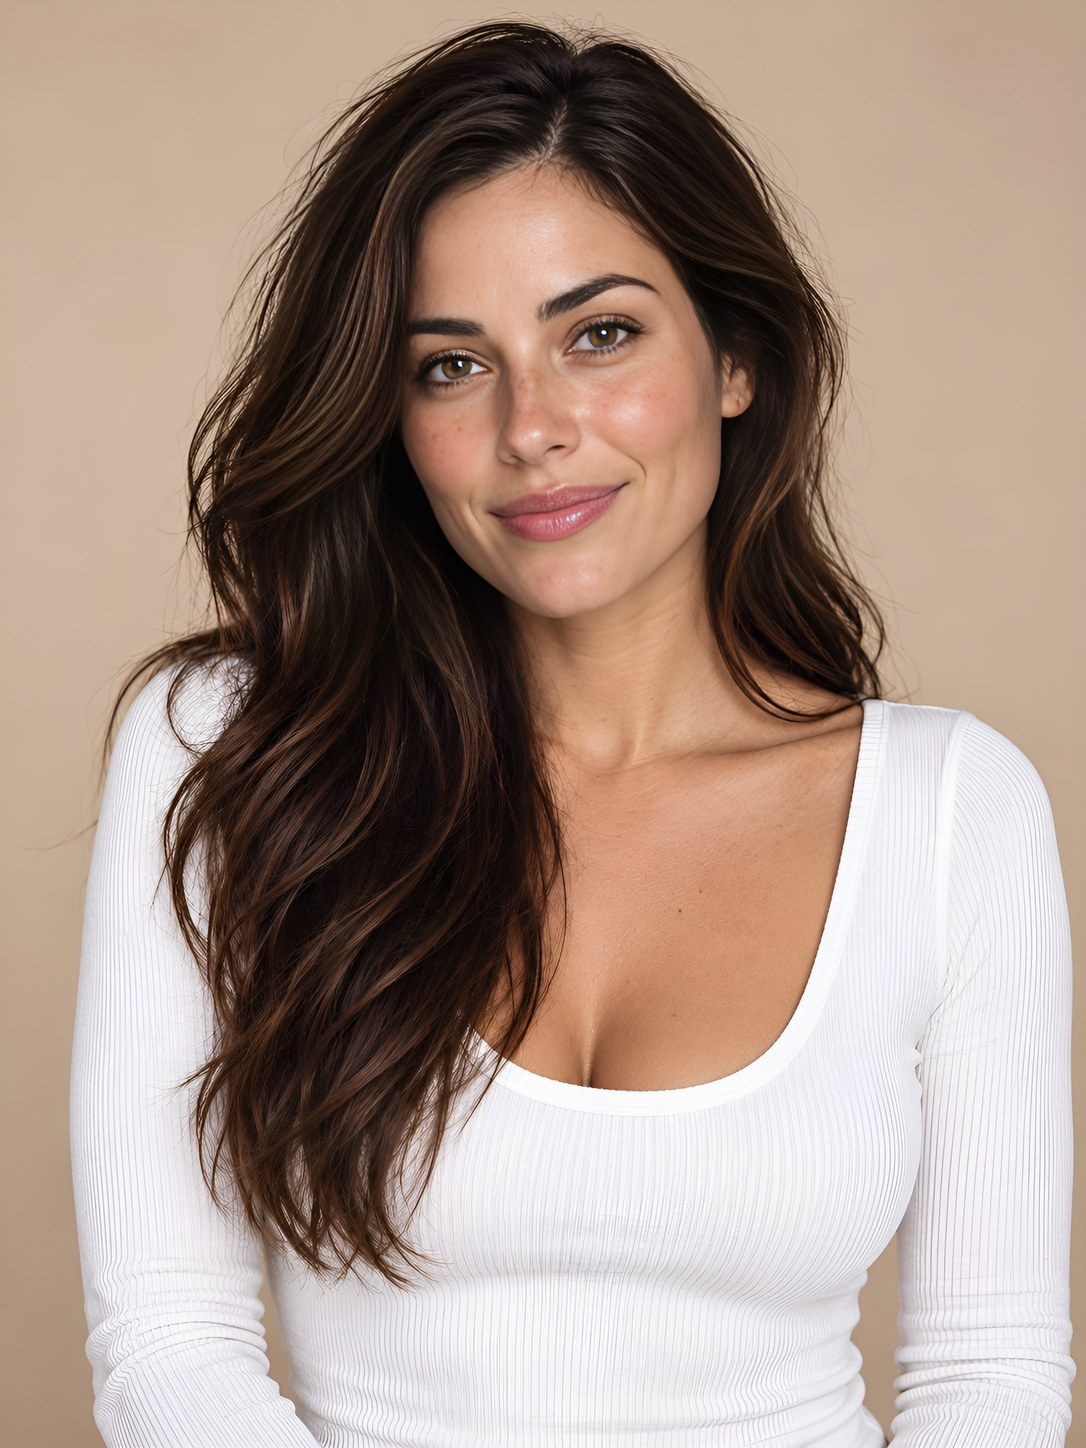
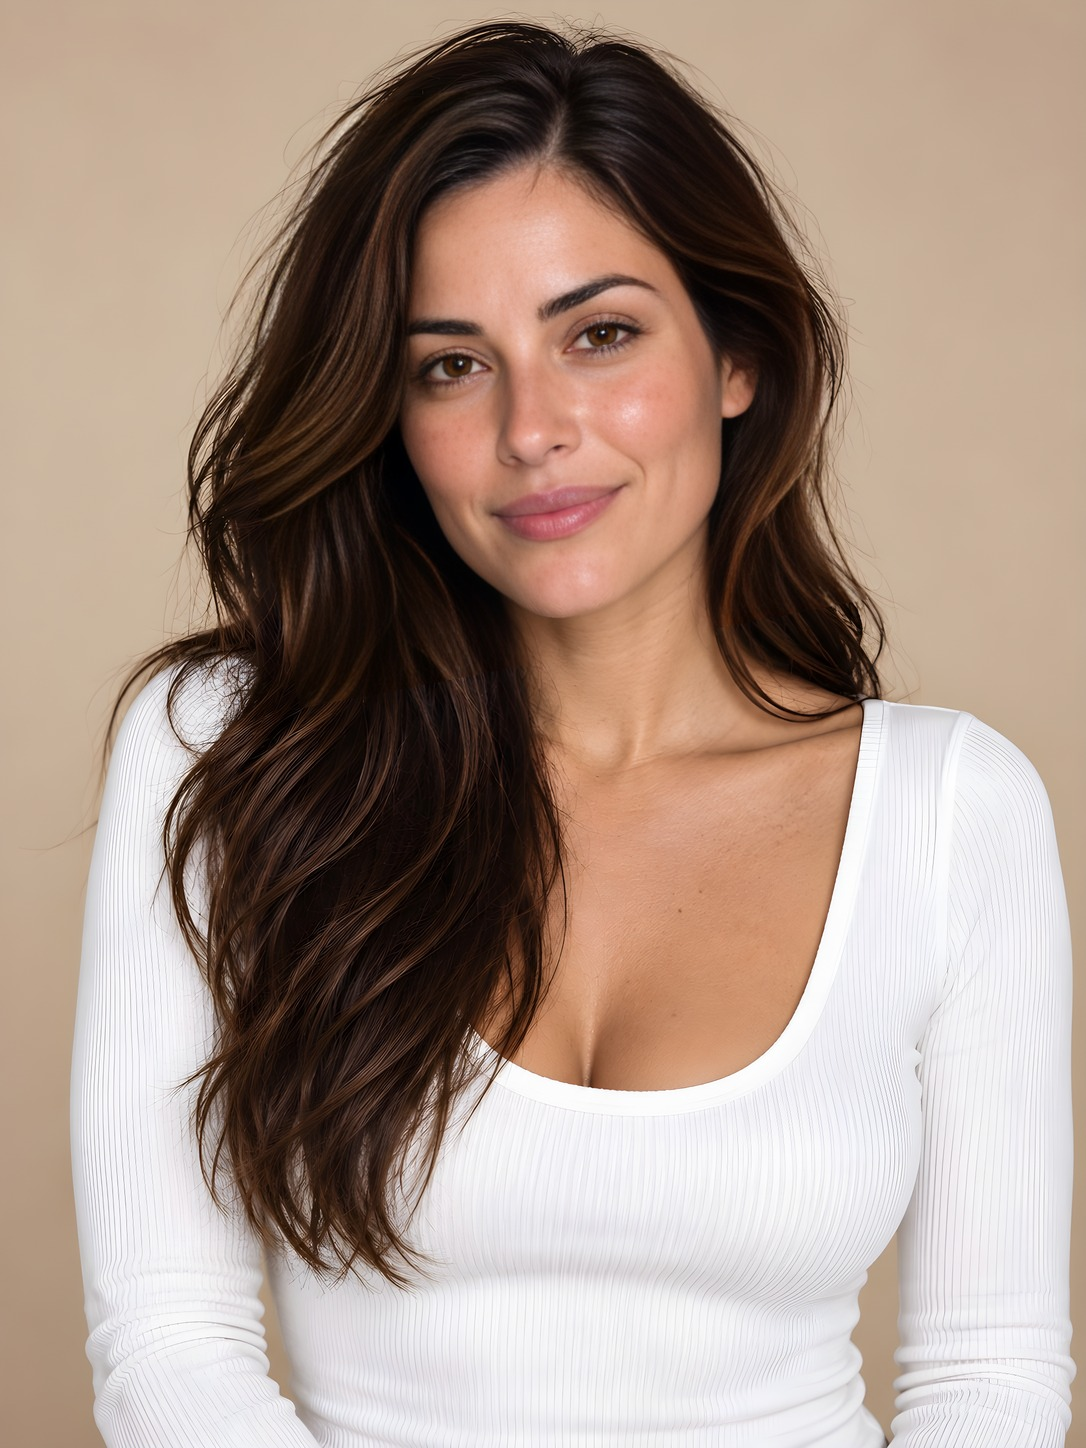
Sample Enhance/Retouch previews remade with the new models; Retouch keeps full size; tests for the Enhance-first start
- enhance v12: AI Retouch uses GFPGAN v1.3 at scale 2 (scale 1 returned half the size).
- Sample enhance.jpg and retouch.jpg remade through the live function (GitHub Actions, sample-refresh).
- Tests: first launch opens Enhance; the Enhance flow and the free sample; other checks
  keep starting on Camera as before.

Claude-Session: https://claude.ai/code/session_01JrFdm5oZqSFMCswYm9RB9g

diff --git a/tests/run.js b/tests/run.js
@@ -489,31 +489,52 @@ test('demo: phone layouts at 320 and 390 wide have no sideways scroll', async ({
 }, { files: demoFiles() });
 
 // ---------- Onboarding ----------
-test('onboarding: one welcome screen with the whole sample portrait; Choose a photo first, then the sample, then a small camera action', async ({ p }) => {
-  await p.goto('https://app.test/'); await p.waitForSelector('#onboarding:not([hidden])');
+test('first launch opens Enhance: sample before/after, Choose a photo, then the sample; the welcome screen is still in Settings', async ({ p }) => {
+  await p.goto('https://app.test/'); await p.waitForFunction(() => screen === 'enhanceHome');
+  const h = await p.evaluate(() => { const b = (id) => $(id).getBoundingClientRect();
+    return { nav: [...document.querySelectorAll('#nav button')].map((x) => x.dataset.dest), current: document.querySelector('#nav [aria-current]').dataset.dest,
+      order: ['enhPick', 'enhSample'].map((id) => Math.round(b(id).top)), fits: b('enhSample').bottom <= innerHeight, onboarded: store.get('glowOnboarded'),
+      hero: [...document.querySelectorAll('.enh-hero img')].map((i) => i.src.split('/').pop()) }; });
+  eq([h.nav, h.current, h.onboarded, h.hero], [['enhance', 'camera', 'editor'], 'enhance', '1', ['original.png', 'enhance.jpg']], 'Enhance first, with the sample before/after');
+  assert(h.order[0] < h.order[1] && h.fits, 'Choose a photo, then Try the sample, both on screen: ' + h.order);
+  eq(await p.evaluate(() => window.__streams.length), 0, 'no camera request on the first screen');
+  // The welcome screen: Settings can still show it, with the whole sample portrait.
+  await p.evaluate(() => { $('settings').showModal(); }); await p.click('#replayIntro'); await p.waitForSelector('#onboarding:not([hidden])');
   const r = await p.evaluate(() => { const ph = document.querySelector('.ob-photo'), img = ph.querySelector('img'), b = (id) => $(id).getBoundingClientRect();
-    return { h: $('obSlide').querySelector('h1').textContent, photo: /demo-v2\/intro\.jpg$/.test(img.src), fit: getComputedStyle(img).objectFit,
-      boxRatio: ph.getBoundingClientRect().width / ph.getBoundingClientRect().height, imgRatio: img.naturalWidth / img.naturalHeight,
-      order: ['obPick', 'obSample', 'obCamera'].map((id) => Math.round(b(id).top)), heights: ['obPick', 'obSample', 'obCamera'].map((id) => Math.round(b(id).height)),
-      primary: getComputedStyle($('obPick')).backgroundColor !== getComputedStyle($('obSample')).backgroundColor,
-      fits: b('obCamera').bottom <= innerHeight, steps: !!document.querySelector('#obDots, #obSkip, #obBack'), text: $('onboarding').textContent }; });
-  eq([r.h, r.photo, r.fit, r.steps, r.fits], ['Your light. Your look.', true, 'contain', false, true], 'one screen, the new portrait, everything on screen');
-  near(r.boxRatio, r.imgRatio, 0.01, 'the portrait keeps its shape: nothing cropped');
-  assert(r.order[0] < r.order[1] && r.order[1] < r.order[2], 'Choose a photo, then Try the sample, then the camera: ' + r.order);
-  assert(r.heights[0] >= 48 && r.heights[2] >= 44 && r.heights[2] < r.heights[0] && r.primary, 'primary, secondary and a smaller camera action: ' + r.heights);
-  assert(!/AI credits each day/.test(r.text), 'no credit claim on the welcome screen');
-  eq(await p.evaluate(() => window.__streams.length), 0, 'no camera request on the welcome screen');
+    return { h: $('obSlide').querySelector('h1').textContent, fit: getComputedStyle(img).objectFit, order: ['obPick', 'obSample', 'obCamera'].map((id) => Math.round(b(id).top)), fits: b('obCamera').bottom <= innerHeight }; });
+  eq([r.h, r.fit, r.fits], ['Your light. Your look.', 'contain', true], 'welcome screen intact');
+  assert(r.order[0] < r.order[1] && r.order[1] < r.order[2], 'Choose a photo, Try the sample, camera: ' + r.order);
   await p.click('#obSample');
   await p.waitForFunction(() => screen === 'editorScreen' && ed.demo && $('before').naturalWidth > 0, null, { timeout: 15000 });
-  eq(await p.evaluate(() => [store.get('glowOnboarded'), $('before').naturalWidth, $('before').naturalHeight]), ['1', 1086, 1448], 'finished, and the sample is the new portrait');
-  // Returning people skip the welcome; Settings can show it again.
-  await p.reload(); await p.waitForFunction(() => screen === 'editorHome' || screen === 'cameraScreen');
-  await p.evaluate(() => go('editor')); assert(await p.isVisible('#sampleBtn'), 'Try a sample · Free on Editor home');
-  await p.evaluate(() => { $('settings').showModal(); }); await p.click('#replayIntro'); await p.waitForSelector('#onboarding:not([hidden])');
+  await p.reload(); await p.waitForFunction(() => screen === 'enhanceHome');
 }, { onboarded: false, camera: false, viewport: { width: 390, height: 740 } });
 
-test('onboarding: Choose a photo opens the picker and the editor', async ({ p }) => {
-  await p.goto('https://app.test/'); await p.waitForSelector('#onboarding:not([hidden])');
+test('enhance: pick, one AI request, before/after, toggles on the phone, save, share screen, editor hand-off', async ({ p, state }) => {
+  await p.goto('https://app.test/'); await p.waitForFunction(() => screen === 'enhanceHome');
+  const fc = p.waitForEvent('filechooser'); await p.click('#enhPick'); await (await fc).setFiles(PORTRAIT);
+  await p.waitForSelector('#enhSheet[open]'); assert(/1 AI credit/.test(await p.textContent('#enhCost')), 'cost shown before Enhance');
+  await p.click('#enhGo');
+  await p.waitForFunction(() => screen === 'enhanceResult' && $('enhAfter').naturalWidth > 0, null, { timeout: 30000 });
+  eq(state.posts.length, 1, 'one AI request'); eq(state.posts[0], 'enhance', 'the enhance mode');
+  for (const k of ['colors', 'bg']) { await p.click(`.enh-t[data-k=${k}]`); await p.waitForFunction(() => !$('enhWorking').classList.contains('on'), null, { timeout: 30000 }); }
+  await p.waitForTimeout(300);
+  eq(state.posts.length, 1, 'toggles never call the AI again');
+  await p.click('#enhDownload'); await downloads(state, 1);
+  await p.waitForFunction(() => screen === 'enhanceShare'); eq(await p.textContent('#enhSavedText'), 'Downloaded', 'honest save label in a browser');
+  await p.click('#enhEdit'); await p.waitForFunction(() => screen === 'editorScreen' && ed.hist.length === 2 && ed.idx === 1);
+  eq(state.errs, [], 'no page errors');
+}, { start: 'enhance', camera: false });
+
+test('enhance: the sample is free and never calls the AI', async ({ p, state }) => {
+  await p.goto('https://app.test/'); await p.waitForFunction(() => screen === 'enhanceHome');
+  await p.click('#enhSample'); await p.waitForSelector('#enhSheet[open]');
+  assert(/No credits used/.test(await p.textContent('#enhCost')), 'free on the sample');
+  await p.click('#enhGo'); await p.waitForFunction(() => screen === 'enhanceResult' && $('enhAfter').naturalWidth > 0, null, { timeout: 30000 });
+  eq(state.posts.length, 0, 'no AI request for the sample');
+}, { start: 'enhance', camera: false, files: demoFiles() });
+
+test('onboarding: Choose a photo on the welcome screen opens the picker and the editor', async ({ p }) => {
+  await p.goto('https://app.test/'); await p.evaluate(() => showOnboarding()); await p.waitForSelector('#onboarding:not([hidden])');
   const fc = p.waitForEvent('filechooser'); await p.click('#obPick'); await (await fc).setFiles(PORTRAIT);
   await p.waitForFunction(() => screen === 'editorScreen' && ed.hist.length > 0 && !ed.demo, null, { timeout: 15000 });
 }, { onboarded: false, camera: false });

diff --git a/tests/harness.js b/tests/harness.js
@@ -53,7 +53,9 @@ exports.launch = async (opts = {}) => {
   // The one-time "Free saves include a small Glow mark" note is assumed seen, except in the tests about it.
   if (!opts.markIntro) await ctx.addInitScript(() => { localStorage.setItem('glowMarkSeen', '1'); });
   if (opts.init) await ctx.addInitScript(opts.init);
-  if (opts.onboarded !== false) await ctx.addInitScript((start) => { localStorage.setItem('glowOnboarded', '1'); if (start) localStorage.setItem('glowStart', start); }, opts.start || '');
+  // Glow opens on Enhance by default; most checks here start where they always did (Camera), and
+  // the Enhance checks pass start: 'enhance'.
+  if (opts.onboarded !== false) await ctx.addInitScript((start) => { localStorage.setItem('glowOnboarded', '1'); localStorage.setItem('glowStart', start); }, opts.start || 'camera');
   const p = await ctx.newPage();
   const state = { used: 0, plan: opts.plan || 'free', quota: opts.quota || 3, posts: [], polls: 0, lookups: 0, refunds: 0, errs: [], downloads: [],
     ai: { ...defaultAi(), ...(opts.ai || {}) }, jobs: {}, flaked: {}, authFail: !!opts.authFail };

diff --git a/supabase/functions/enhance/pipeline.ts b/supabase/functions/enhance/pipeline.ts
@@ -25,7 +25,9 @@ export const MODES: Record<string, Mode> = {
   upscale: { model: "nightmareai/real-esrgan", input: { scale: 4, face_enhance: false } },
   faces: { model: "tencentarc/gfpgan", input: { version: "v1.4", scale: 2 } },
   colorize: { model: "piddnad/ddcolor", input: { model_size: "large" } },
-  retouch: { model: "tencentarc/gfpgan", input: { version: "v1.4", scale: 1 } },
+  // AI Retouch: GFPGAN v1.3, the softer, more natural version (Face repair uses v1.4). Scale 2,
+  // because at scale 1 this model returns half the input's size.
+  retouch: { model: "tencentarc/gfpgan", input: { version: "v1.3", scale: 2 } },
   headshot: { model: STYLE_MODELS, input: style("professional studio headshot photo, soft key light, smart business attire, neutral gray backdrop, sharp focus") },
   anime: { model: STYLE_MODELS, input: style("anime style illustration portrait, vibrant colors, clean line art, soft cel shading") },
   watercolor: { model: STYLE_MODELS, input: style("watercolor painting portrait, soft pastel washes, paper texture, delicate brush strokes") },
